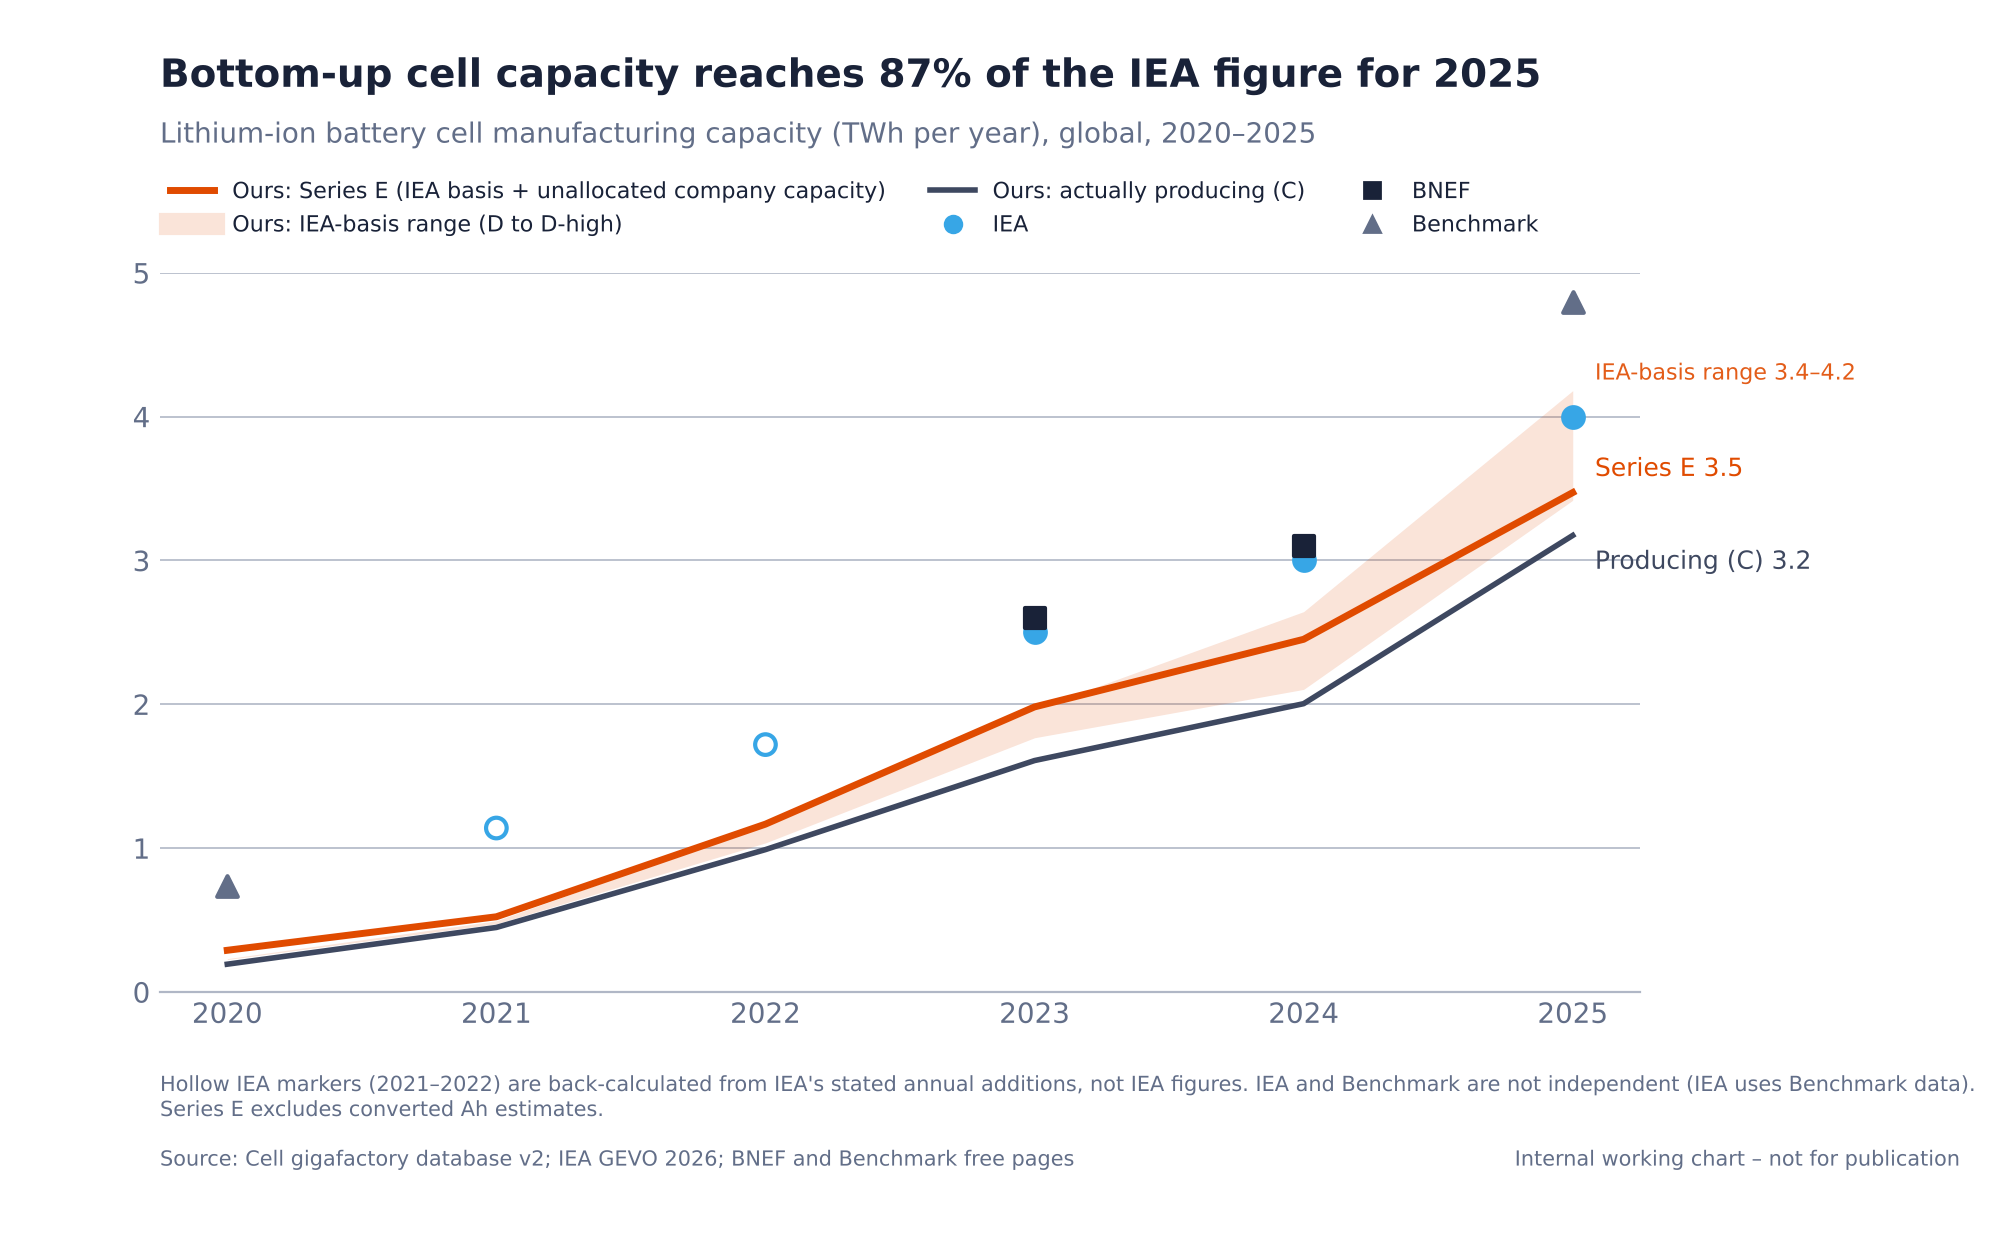
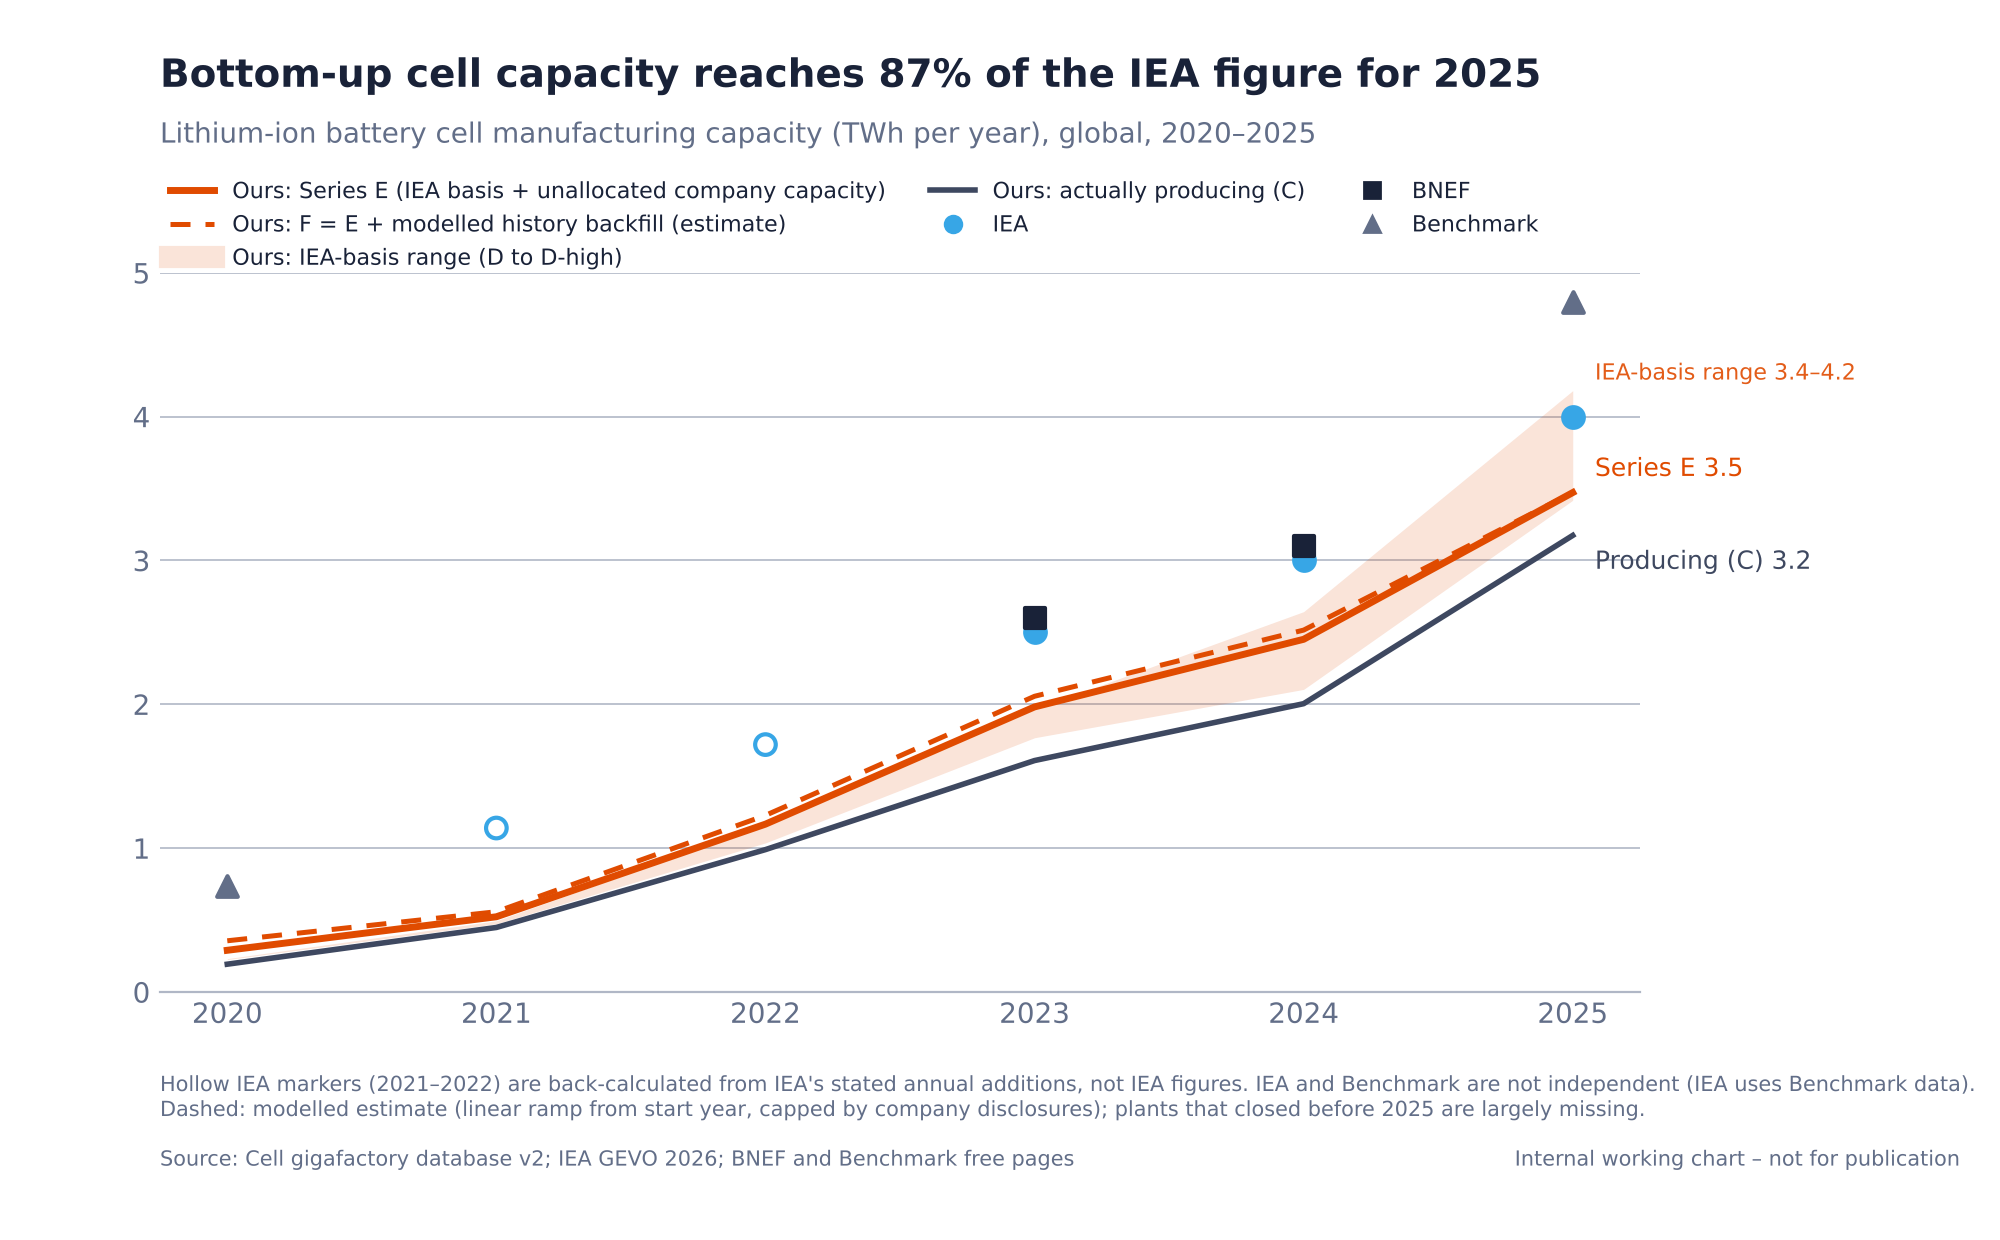
Chart: add Series F (modelled, dashed)
Claude-Session: https://claude.ai/code/session_01CkVi1Qn3QX4ej2AqanzUAz

Changed region(s): [[0.093, 0.8887, 0.806, 0.9194], [0.062, 0.1532, 0.372, 0.2145], [0.496, 0.5516, 0.527, 0.5823]]

diff --git a/scripts/make_v2_charts.py b/scripts/make_v2_charts.py
@@ -44,12 +44,15 @@ C = [tw(q[y][0]) for y in years]
 D = [tw(q[y][1]) for y in years]
 DH = [tw(q[y][2]) for y in years]
 E = [tw(e[y]) for y in years]
+fser = {int(r["year"]): float(r["gwh_series_f"]) for r in csv.DictReader(open("capacity_by_year_f.csv"))}
+F = [tw(fser[y]) for y in years]
 
 fig = plt.figure(figsize=(10, 6.2), dpi=200)
 ax = fig.add_axes([0.08, 0.2, 0.74, 0.58])
 ax.fill_between(years, D, DH, color=HL, alpha=0.15, linewidth=0)
 ax.plot(years, C, color=TOTAL, lw=2)
 ax.plot(years, E, color=HL, lw=2.5)
+ax.plot(years, F, color=HL, lw=1.8, ls=(0, (4, 3)))
 style = {"IEA": (HL2, "o"), "BNEF": (INK, "s"), "Benchmark": (SUB, "^")}
 for b in bench:
     y, v = int(b["year"]), float(b["gwh"]) / 1000
@@ -75,6 +78,7 @@ fig.text(0.08, 0.93, f"Bottom-up cell capacity reaches {share:.0f}% of the IEA f
 fig.text(0.08, 0.885, f"Lithium-ion battery cell manufacturing capacity (TWh per year), global, {years[0]}–{last}",
          fontsize=10, color=SUB)
 handles = [Line2D([], [], color=HL, lw=2.5, label="Ours: Series E (IEA basis + unallocated company capacity)"),
+           Line2D([], [], color=HL, lw=1.8, ls=(0, (4, 3)), label="Ours: F = E + modelled history backfill (estimate)"),
            Line2D([], [], color=HL, lw=8, alpha=0.15, label="Ours: IEA-basis range (D to D-high)"),
            Line2D([], [], color=TOTAL, lw=2, label="Ours: actually producing (C)"),
            Line2D([], [], color=HL2, marker="o", lw=0, label="IEA"),
@@ -83,8 +87,8 @@ handles = [Line2D([], [], color=HL, lw=2.5, label="Ours: Series E (IEA basis + u
 fig.legend(handles=handles, loc="upper left", bbox_to_anchor=(0.075, 0.87), ncol=3, frameon=False, fontsize=8,
            labelcolor=INK)
 fig.text(0.08, 0.10, "Hollow IEA markers (2021–2022) are back-calculated from IEA's stated annual additions, not IEA "
-         "figures. IEA and Benchmark are not independent (IEA uses Benchmark data). Series E excludes converted Ah "
-         "estimates.", fontsize=7.5, color=SUB, wrap=True)
+         "figures. IEA and Benchmark are not independent (IEA uses Benchmark data). Dashed: modelled estimate (linear "
+         "ramp from start year, capped by company disclosures); plants that closed before 2025 are largely missing.", fontsize=7.5, color=SUB, wrap=True)
 fig.text(0.08, 0.06, "Source: Cell gigafactory database v2; IEA GEVO 2026; BNEF and Benchmark free pages", fontsize=7.5, color=SUB)
 fig.text(0.98, 0.06, WATERMARK, fontsize=7.5, color=SUB, ha="right")
 fig.savefig("charts/capacity_vs_benchmarks.png")
